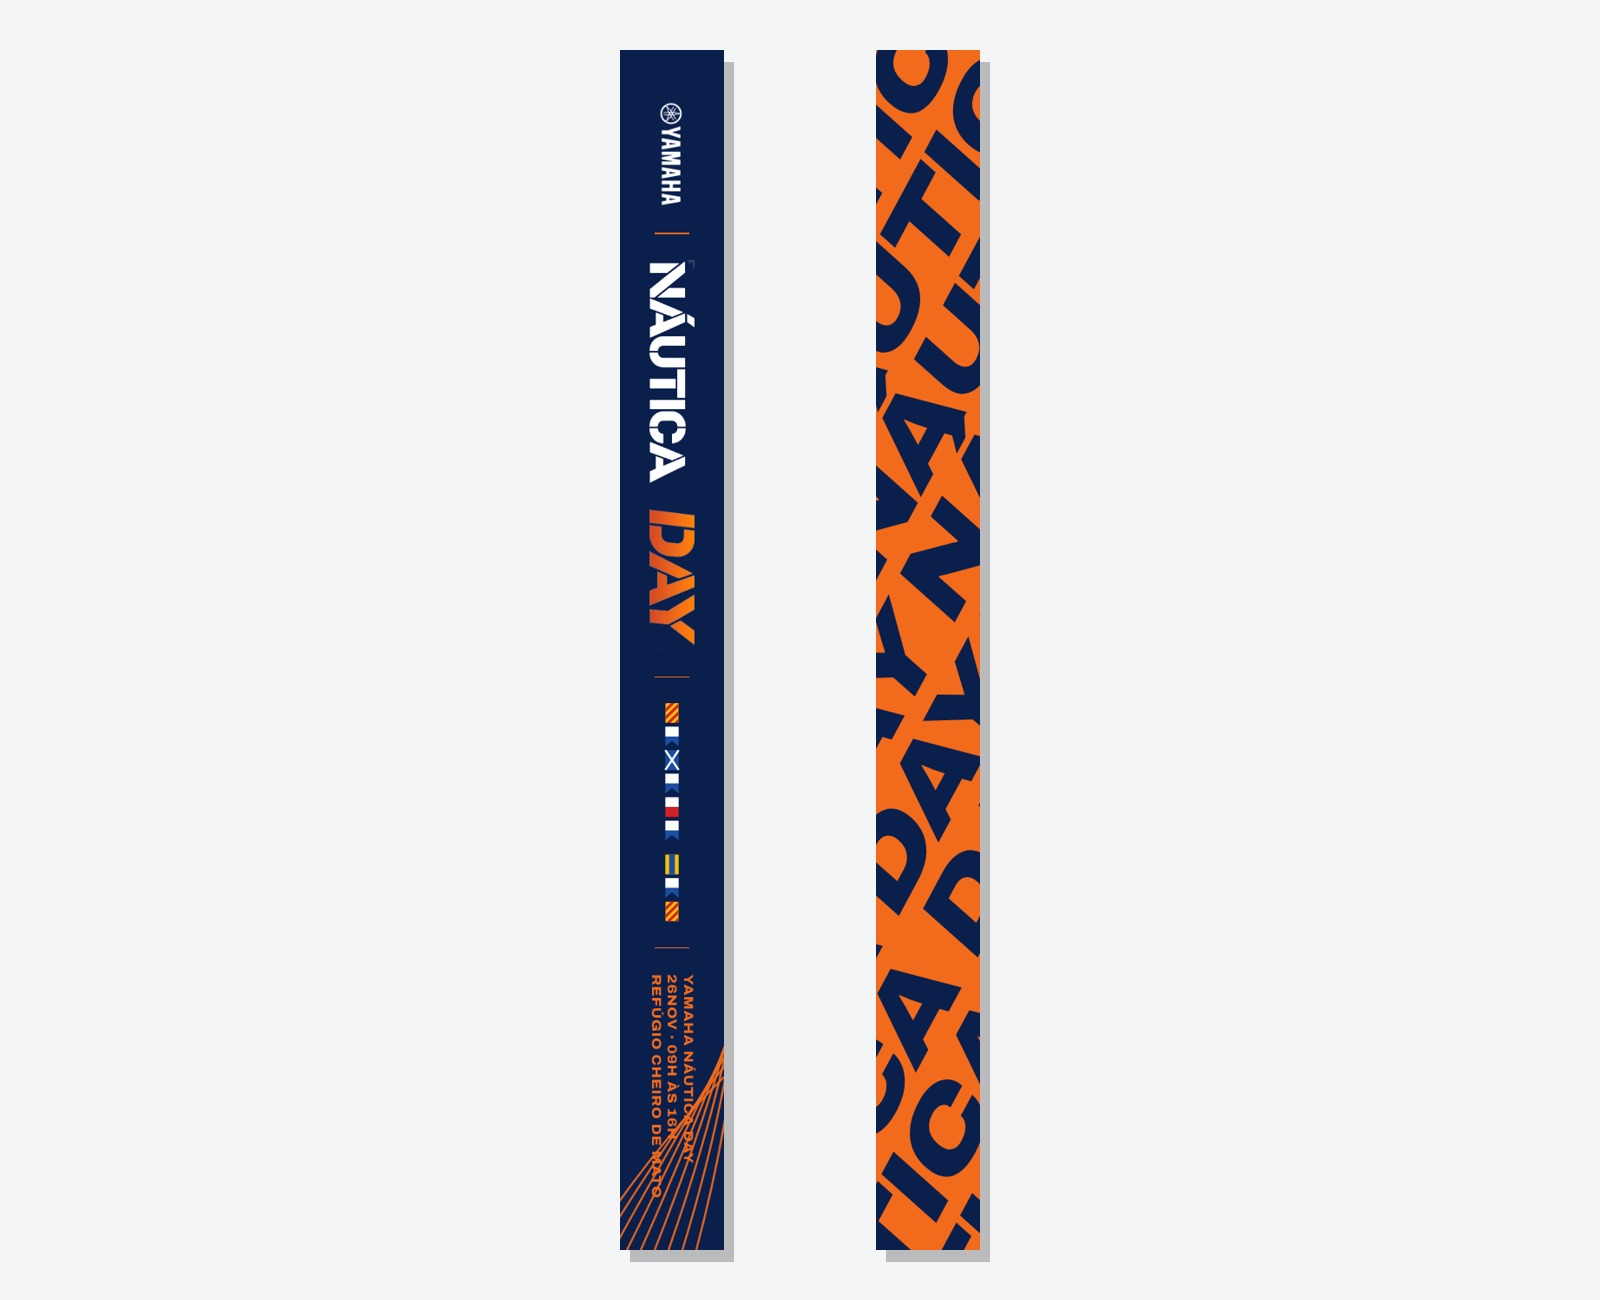
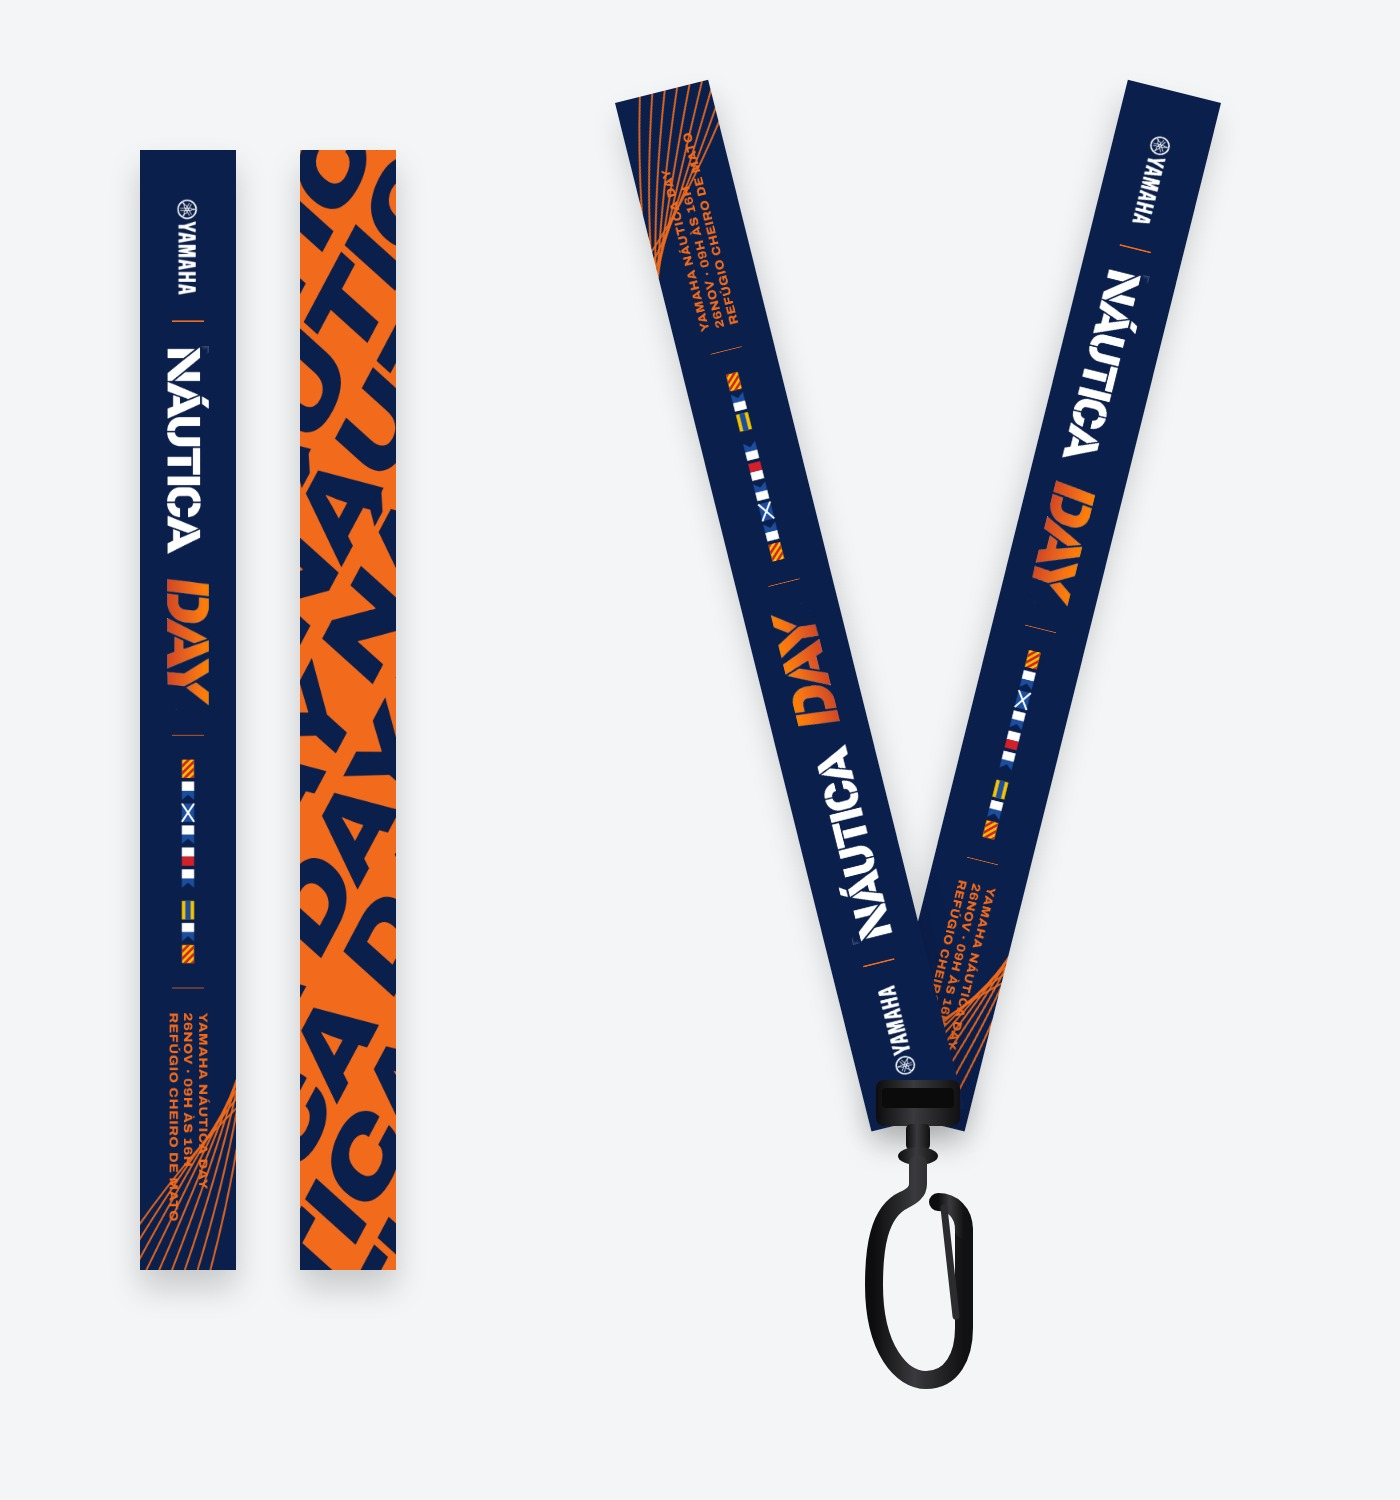
Adrenalina: tira peças juvenis, cordão em V com mosquetão em vetor
Claude-Session: https://claude.ai/code/session_011PRs9YJZJdpFaPzDBAVnYC

diff --git a/index.html b/index.html
@@ -500,7 +500,7 @@ function voteBox(){const k=KV[i],liked=!!ls.get("nd-like-"+k.id),c=cnt(k.id);
   <div class="tal">${KV.map((x,n)=>`<div class="row ${ls.get("nd-like-"+x.id)?'me':''}"><span>Rota ${n+1} · ${x.name}</span><b>${dbState==="ok"?cnt(x.id):'–'} ♥</b></div>`).join('')}</div></div>`}
 function bindVote(){const b=$("#vb");if(b)b.onclick=()=>cast(KV[i].id)}
 
-const PCS={"a": [{"t": "Pórtico de entrada", "d": "Branco, com a aquarela do KV subindo pelas pernas e invadindo o canto; YAMAHA / NÁUTICA DAY no topo.", "sp": [["Mood", "branco"]], "img": "a2-portico.jpg"}, {"t": "Backdrop principal / palco", "d": "Fundo branco com o lockup à esquerda e a aquarela atravessando a lona; luz laranja na borda do palco.", "sp": [["Mood", "branco"]], "img": "a2-palco.jpg"}, {"t": "Wind banners e totem", "d": "No navy, que fica mais forte no gramado: YAMAHA, NÁUTICA DAY e a aquarela; totem com o caminho do evento.", "sp": [["Mood", "navy"]], "img": "a2-sinal.jpg"}, {"t": "Credencial", "d": "Branca, com a aquarela no canto, lockup grande, nome, bandeiras e faixa navy de IMPRENSA; cordão navy com fivela.", "sp": [["Formato", "PVC 9,5 × 14 cm"]], "img": "a3-cred.jpg"}, {"t": "Cordão", "d": "Frente navy com Yamaha, NÁUTICA DAY, bandeiras e data; por dentro, laranja com NÁUTICA DAY na diagonal. Mosquetão preto fosco.", "sp": [["Fita", "25 mm sublimada nas duas faces"]], "img": "a3-cordaov.jpg", "tall": 1}, {"t": "Cordão", "d": "Frente navy com Yamaha, o lettering NÁUTICA DAY do KV, as bandeiras YAMAHA DAY, data e local; verso laranja com NÁUTICA DAY gigante na diagonal.", "sp": [["Fita", "poliéster 25 mm sublimado nas duas faces"], ["Ferragem", "mosquetão preto fosco"]], "img": "a2-cordao.jpg", "tall": 1}, {"t": "Convite e agenda digitais", "d": "Para WhatsApp e e-mail: convite com confirmação de presença e a programação do dia.", "sp": [["Mood", "branco"]], "img": "a2-digital.jpg"}, {"t": "Camisetas", "d": "Branca com assinatura no peito; costas com o lockup e pinceladas chapadas em 4 cores de silk.", "sp": [["Técnica", "silk, 4 cores chapadas"]], "img": "a3-camisetas.jpg"}, {"t": "Bonés", "d": "Trucker branco com bandeiras bordadas, 5-panel azul com patch e bucket branco com DAY.", "sp": [["Técnica", "bordado e patch"]], "img": "a3-bones.jpg"}, {"t": "Kit de bordo", "d": "Dry bag branca com pinceladas e lockup, bandana com bandeiras, chaveiro flutuante, viseira e protetor solar.", "sp": [["Itens", "5 peças"]], "img": "a3-bolsa.jpg"}, {"t": "Kit praia", "d": "Toalha, garrafa, dry bag, óculos e chinelo no navy com detalhes laranja.", "sp": [["Mood", "navy"]], "img": "a2-praia.jpg"}], "b": [{"t": "Backdrop", "d": "O KV inteiro numa parede de 8 m na área de recepção do Refúgio, com o lockup, a data e as bandeiras livres de qualquer obstáculo.", "sp": [["Formato", "8 × 4,5 m"], ["Base", "lona front-light ou tecido tensionado"]], "img": "cn-b-wall.jpg"}, {"t": "Wind banners", "d": "Quatro wind banners no píer alternando dois modelos: o lockup com a WaveRunner inteira, e o laranja com Yamaha, as bandeiras D·A·Y e a data.", "sp": [["Formato", "pena, 3,5 m"], ["Base", "tecido sublimado + base com peso"]], "img": "cn-b-wind.jpg"}, {"t": "Convite e agenda digitais", "d": "Para WhatsApp e e-mail, no formato vertical do celular: o convite com a data e o local, e a agenda do dia com os horários do evento.", "sp": [["Formato", "1080 × 1920"], ["Envio", "WhatsApp · e-mail · stories"]], "img": "cn-b-phones.jpg"}, {"t": "Credencial", "d": "Lockup Yamaha + Náutica Day inteiro, uma WaveRunner inteira no navy da carta náutica, nome em destaque, bandeiras YAMAHA DAY e faixa laranja por categoria.", "sp": [["Formato", "PVC 9,5 × 14 cm"], ["Categorias", "imprensa · convidado · staff · piloto"]], "img": "cn-b-cred.jpg"}, {"t": "Credencial · arte", "d": "A arte plana da frente, com a margem de segurança respeitada: nada do logo nem da WaveRunner encosta na borda.", "sp": [["Arquivo", "vetor + foto do KV"]], "img": "cn-b-credarte.jpg", "tall": 1}, {"t": "Cordões", "d": "Dois cordões que se alternam: um com Yamaha, o lettering NÁUTICA DAY do KV e as bandeiras YAMAHA DAY, e o laranja com a data, o local e as bandeiras D·A·Y.", "sp": [["Fita", "poliéster 25 mm sublimado"], ["Ferragem", "mosquetão preto fosco"]], "img": "cn-b-lany.jpg"}, {"t": "Camisetas", "d": "Navy com a estampa grande nas costas e branca com a assinatura no peito. Tudo em vetor, cores chapadas, pronto para silk.", "sp": [["Base", "algodão 200 g, oversized"], ["Técnica", "silk em 2 a 4 cores"]], "img": "cn-b-tees.jpg"}, {"t": "Bonés", "d": "Navy e branco com aba navy, com o lockup Yamaha + Náutica Day bordado na frente.", "sp": [["Técnica", "bordado"], ["Modelo", "6 gomos, aba curva"]], "img": "cn-b-caps.jpg"}, {"t": "Kit de bordo", "d": "Caixa com o lockup do KV na tampa e as bandeiras YAMAHA DAY; ecobag com Yamaha e as bandeiras D·A·Y. Dentro: boné, óculos, garrafa, toalha e protetor solar.", "sp": [["Embalagem", "caixa rígida + ecobag de algodão"]], "img": "cn-b-kit.jpg"}], "c": [{"t": "Backdrop", "d": "O KV inteiro numa parede de 8 m na área de recepção do Refúgio, com o lockup, a data e as bandeiras livres de qualquer obstáculo.", "sp": [["Formato", "8 × 4,5 m"], ["Base", "lona front-light ou tecido tensionado"]], "img": "cn-c-wall.jpg"}, {"t": "Wind banners", "d": "Quatro wind banners no píer alternando dois modelos: o lockup com a WaveRunner inteira, e o laranja com Yamaha, as bandeiras D·A·Y e a data.", "sp": [["Formato", "pena, 3,5 m"], ["Base", "tecido sublimado + base com peso"]], "img": "cn-c-wind.jpg"}, {"t": "Convite e agenda digitais", "d": "Para WhatsApp e e-mail, no formato vertical do celular: o convite com a data e o local, e a agenda do dia com os horários do evento.", "sp": [["Formato", "1080 × 1920"], ["Envio", "WhatsApp · e-mail · stories"]], "img": "cn-c-phones.jpg"}, {"t": "Credencial", "d": "Lockup Yamaha + Náutica Day inteiro, uma WaveRunner inteira nas tarjas de largada, nome em destaque, bandeiras YAMAHA DAY e faixa laranja por categoria.", "sp": [["Formato", "PVC 9,5 × 14 cm"], ["Categorias", "imprensa · convidado · staff · piloto"]], "img": "cn-c-cred.jpg"}, {"t": "Credencial · arte", "d": "A arte plana da frente, com a margem de segurança respeitada: nada do logo nem da WaveRunner encosta na borda.", "sp": [["Arquivo", "vetor + foto do KV"]], "img": "cn-c-credarte.jpg", "tall": 1}, {"t": "Cordões", "d": "Dois cordões que se alternam: um com Yamaha, o lettering NÁUTICA DAY do KV e as bandeiras YAMAHA DAY, e o laranja com a data, o local e as bandeiras D·A·Y.", "sp": [["Fita", "poliéster 25 mm sublimado"], ["Ferragem", "mosquetão preto fosco"]], "img": "cn-c-lany.jpg"}, {"t": "Camisetas", "d": "Navy com a estampa grande nas costas e branca com a assinatura no peito. Tudo em vetor, cores chapadas, pronto para silk.", "sp": [["Base", "algodão 200 g, oversized"], ["Técnica", "silk em 2 a 4 cores"]], "img": "cn-c-tees.jpg"}, {"t": "Bonés", "d": "Navy e branco com aba navy, com o lockup Yamaha + Náutica Day bordado na frente.", "sp": [["Técnica", "bordado"], ["Modelo", "6 gomos, aba curva"]], "img": "cn-c-caps.jpg"}, {"t": "Kit de bordo", "d": "Caixa com o lockup do KV na tampa e as bandeiras YAMAHA DAY; ecobag com Yamaha e as bandeiras D·A·Y. Dentro: boné, óculos, garrafa, toalha e protetor solar.", "sp": [["Embalagem", "caixa rígida + ecobag de algodão"]], "img": "cn-c-kit.jpg"}, {"t": "Camisetas · variação", "d": "Variação já aprovada: navy com as tarjas no peito e as listras na lateral, e laranja com o radar nas costas.", "sp": [["Base", "algodão 200 g, oversized"], ["Técnica", "silk em 2 cores"]], "img": "pz-c-camisetas.jpg"}]};
+const PCS={"a": [{"t": "Pórtico de entrada", "d": "Branco, com a aquarela do KV subindo pelas pernas e invadindo o canto; YAMAHA / NÁUTICA DAY no topo.", "sp": [["Mood", "branco"]], "img": "a2-portico.jpg"}, {"t": "Backdrop principal / palco", "d": "Fundo branco com o lockup à esquerda e a aquarela atravessando a lona; luz laranja na borda do palco.", "sp": [["Mood", "branco"]], "img": "a2-palco.jpg"}, {"t": "Wind banners e totem", "d": "No navy, que fica mais forte no gramado: YAMAHA, NÁUTICA DAY e a aquarela; totem com o caminho do evento.", "sp": [["Mood", "navy"]], "img": "a2-sinal.jpg"}, {"t": "Cordão", "d": "Frente navy com Yamaha, o lettering NÁUTICA DAY do KV, as bandeiras YAMAHA DAY, data e local; verso laranja com NÁUTICA DAY gigante na diagonal. Montado em V com mosquetão preto fosco.", "sp": [["Fita", "poliéster 25 mm sublimado nas duas faces"], ["Ferragem", "mosquetão preto fosco"]], "img": "a2-cordao.jpg"}, {"t": "Convite e agenda digitais", "d": "Para WhatsApp e e-mail: convite com confirmação de presença e a programação do dia.", "sp": [["Mood", "branco"]], "img": "a2-digital.jpg"}, {"t": "Kit praia", "d": "Toalha, garrafa, dry bag, óculos e chinelo no navy com detalhes laranja.", "sp": [["Mood", "navy"]], "img": "a2-praia.jpg"}], "b": [{"t": "Backdrop", "d": "O KV inteiro numa parede de 8 m na área de recepção do Refúgio, com o lockup, a data e as bandeiras livres de qualquer obstáculo.", "sp": [["Formato", "8 × 4,5 m"], ["Base", "lona front-light ou tecido tensionado"]], "img": "cn-b-wall.jpg"}, {"t": "Wind banners", "d": "Quatro wind banners no píer alternando dois modelos: o lockup com a WaveRunner inteira, e o laranja com Yamaha, as bandeiras D·A·Y e a data.", "sp": [["Formato", "pena, 3,5 m"], ["Base", "tecido sublimado + base com peso"]], "img": "cn-b-wind.jpg"}, {"t": "Convite e agenda digitais", "d": "Para WhatsApp e e-mail, no formato vertical do celular: o convite com a data e o local, e a agenda do dia com os horários do evento.", "sp": [["Formato", "1080 × 1920"], ["Envio", "WhatsApp · e-mail · stories"]], "img": "cn-b-phones.jpg"}, {"t": "Credencial", "d": "Lockup Yamaha + Náutica Day inteiro, uma WaveRunner inteira no navy da carta náutica, nome em destaque, bandeiras YAMAHA DAY e faixa laranja por categoria.", "sp": [["Formato", "PVC 9,5 × 14 cm"], ["Categorias", "imprensa · convidado · staff · piloto"]], "img": "cn-b-cred.jpg"}, {"t": "Credencial · arte", "d": "A arte plana da frente, com a margem de segurança respeitada: nada do logo nem da WaveRunner encosta na borda.", "sp": [["Arquivo", "vetor + foto do KV"]], "img": "cn-b-credarte.jpg", "tall": 1}, {"t": "Cordões", "d": "Dois cordões que se alternam: um com Yamaha, o lettering NÁUTICA DAY do KV e as bandeiras YAMAHA DAY, e o laranja com a data, o local e as bandeiras D·A·Y.", "sp": [["Fita", "poliéster 25 mm sublimado"], ["Ferragem", "mosquetão preto fosco"]], "img": "cn-b-lany.jpg"}, {"t": "Camisetas", "d": "Navy com a estampa grande nas costas e branca com a assinatura no peito. Tudo em vetor, cores chapadas, pronto para silk.", "sp": [["Base", "algodão 200 g, oversized"], ["Técnica", "silk em 2 a 4 cores"]], "img": "cn-b-tees.jpg"}, {"t": "Bonés", "d": "Navy e branco com aba navy, com o lockup Yamaha + Náutica Day bordado na frente.", "sp": [["Técnica", "bordado"], ["Modelo", "6 gomos, aba curva"]], "img": "cn-b-caps.jpg"}, {"t": "Kit de bordo", "d": "Caixa com o lockup do KV na tampa e as bandeiras YAMAHA DAY; ecobag com Yamaha e as bandeiras D·A·Y. Dentro: boné, óculos, garrafa, toalha e protetor solar.", "sp": [["Embalagem", "caixa rígida + ecobag de algodão"]], "img": "cn-b-kit.jpg"}], "c": [{"t": "Backdrop", "d": "O KV inteiro numa parede de 8 m na área de recepção do Refúgio, com o lockup, a data e as bandeiras livres de qualquer obstáculo.", "sp": [["Formato", "8 × 4,5 m"], ["Base", "lona front-light ou tecido tensionado"]], "img": "cn-c-wall.jpg"}, {"t": "Wind banners", "d": "Quatro wind banners no píer alternando dois modelos: o lockup com a WaveRunner inteira, e o laranja com Yamaha, as bandeiras D·A·Y e a data.", "sp": [["Formato", "pena, 3,5 m"], ["Base", "tecido sublimado + base com peso"]], "img": "cn-c-wind.jpg"}, {"t": "Convite e agenda digitais", "d": "Para WhatsApp e e-mail, no formato vertical do celular: o convite com a data e o local, e a agenda do dia com os horários do evento.", "sp": [["Formato", "1080 × 1920"], ["Envio", "WhatsApp · e-mail · stories"]], "img": "cn-c-phones.jpg"}, {"t": "Credencial", "d": "Lockup Yamaha + Náutica Day inteiro, uma WaveRunner inteira nas tarjas de largada, nome em destaque, bandeiras YAMAHA DAY e faixa laranja por categoria.", "sp": [["Formato", "PVC 9,5 × 14 cm"], ["Categorias", "imprensa · convidado · staff · piloto"]], "img": "cn-c-cred.jpg"}, {"t": "Credencial · arte", "d": "A arte plana da frente, com a margem de segurança respeitada: nada do logo nem da WaveRunner encosta na borda.", "sp": [["Arquivo", "vetor + foto do KV"]], "img": "cn-c-credarte.jpg", "tall": 1}, {"t": "Cordões", "d": "Dois cordões que se alternam: um com Yamaha, o lettering NÁUTICA DAY do KV e as bandeiras YAMAHA DAY, e o laranja com a data, o local e as bandeiras D·A·Y.", "sp": [["Fita", "poliéster 25 mm sublimado"], ["Ferragem", "mosquetão preto fosco"]], "img": "cn-c-lany.jpg"}, {"t": "Camisetas", "d": "Navy com a estampa grande nas costas e branca com a assinatura no peito. Tudo em vetor, cores chapadas, pronto para silk.", "sp": [["Base", "algodão 200 g, oversized"], ["Técnica", "silk em 2 a 4 cores"]], "img": "cn-c-tees.jpg"}, {"t": "Bonés", "d": "Navy e branco com aba navy, com o lockup Yamaha + Náutica Day bordado na frente.", "sp": [["Técnica", "bordado"], ["Modelo", "6 gomos, aba curva"]], "img": "cn-c-caps.jpg"}, {"t": "Kit de bordo", "d": "Caixa com o lockup do KV na tampa e as bandeiras YAMAHA DAY; ecobag com Yamaha e as bandeiras D·A·Y. Dentro: boné, óculos, garrafa, toalha e protetor solar.", "sp": [["Embalagem", "caixa rígida + ecobag de algodão"]], "img": "cn-c-kit.jpg"}, {"t": "Camisetas · variação", "d": "Variação já aprovada: navy com as tarjas no peito e as listras na lateral, e laranja com o radar nas costas.", "sp": [["Base", "algodão 200 g, oversized"], ["Técnica", "silk em 2 cores"]], "img": "pz-c-camisetas.jpg"}]};
 function renderB(keep){const k=KV[i],nx=KV[(i+1)%3];
  sheet.classList.add("rB");
  sheet.innerHTML=`<div class="top"><button id="bk">← Voltar<kbd>Esc</kbd></button><span class="nm">Rota ${i+1} · ${k.name}</span><span class="nv"><button id="rp" aria-label="Rota anterior">←</button><button id="rn" aria-label="Próxima rota">→</button></span></div>
